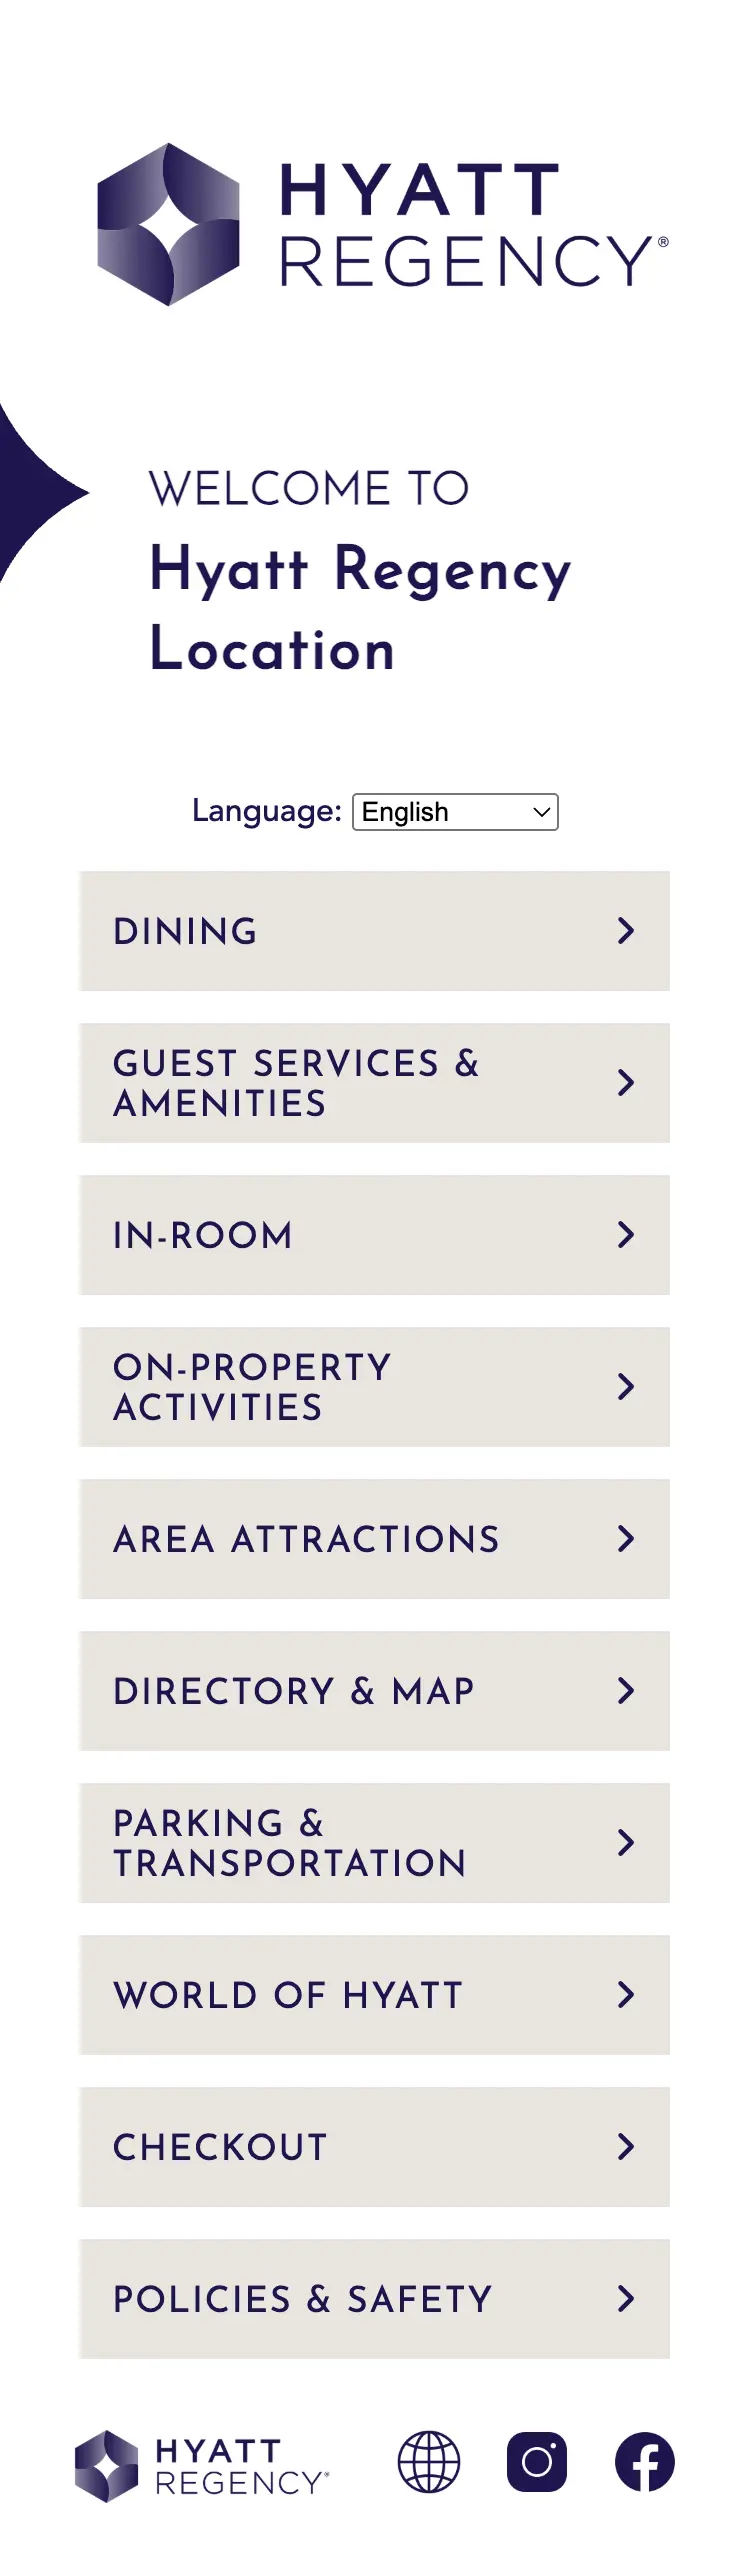
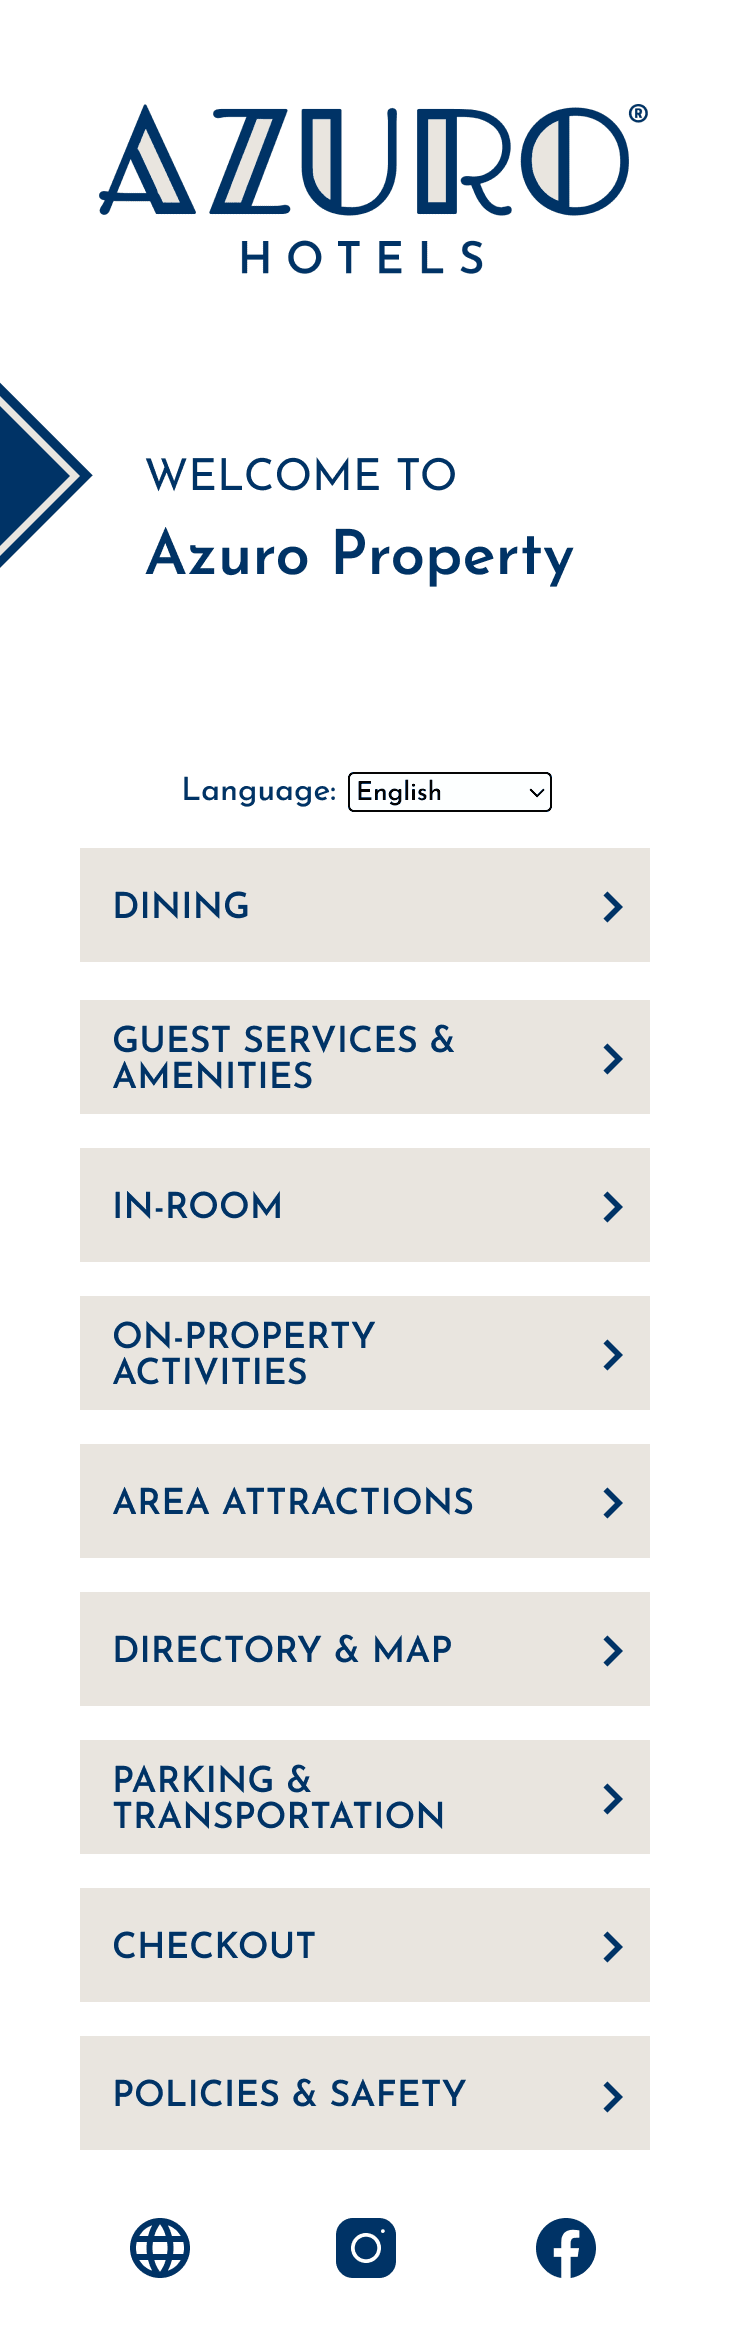
Update Styles

diff --git a/src/components/WorkItems/MobileDirectory.jsx b/src/components/WorkItems/MobileDirectory.jsx
@@ -1,4 +1,4 @@
-import { useState, useRef, useEffect, use } from 'react';
+import { useState, useRef, useEffect } from 'react';
 import { FaHandPointer } from "react-icons/fa6";
 
 
@@ -24,51 +24,158 @@ const MobileDirectory = () => {
       <div className="max-w-6xl mx-auto my-auto outline-offset-0 outline-0 text-black p-10">
         
         <div className="flex justify-between items-start sm:items-center">
-          <h3 className="font-bold text-black text-xl">
-            HYATT REGENCY<span className='text-gray-600 font-semibold'> | DIGITAL COMPENDIUM</span>
+          <h3 className="font-bold text-[#f22b40] text-xl">
+            AZURO HOTELS<span className='text-gray-600 font-medium'> | MOBILE GUEST DIRECTORY</span>
           </h3>
         </div>
         
-        <hr className='border border-gray-600 my-3'/>
+        <hr className='border border-gray-600 mb-10 mt-5'/>
 
-        <div className="space-y-4 grid grid-cols-2 md:grid-cols-3 gap-15 mt-10">
-          <div className='hidden md:flex flex-col justify-center items-center h-fit'>
-            <div className='pb-3'>
-              <select className='text-sm font-medium border-2 border-[#f22b40] rounded-sm' name="languages" id="lang-select" value={currLang} onChange={handleChange}>
-                <option value="english">English</option>
-                <option value="spanish">Spanish</option>
-                <option value="german">German</option>
-                <option value="french">French</option>
-                <option value="chinese-s">Chinese (Simplified)</option>
-                <option value="chinese-t">Chinese (Traditional)</option>
-                <option value="japanese">Japanese</option>
-                <option value="korean">Korean</option>
-                <option value="arabic">Arabic</option>
-              </select>
-            </div>
-            <div className='relative w-[270px] flex flex-col items-center justify-start'>
-              <img className='w-[270px] absolute z-10 pointer-events-none' src="/mobile_directory/frameiphone.webp" alt="phone frame" />
-              <div className='w-[243px] absolute mt-18 max-h-[418px] overflow-y-scroll'>
-                <img src={`/mobile_directory/${currLang}-screen.webp`} alt="Hyatt Regency Mobile Directory" />
+        <div className="space-y-4 grid grid-cols-1 lg:grid-cols-2 gap-5 mt-10">
+          <div className='hidden lg:flex flex-col justify-center items-center h-fit relative'>
+            
+            <div className='pb-2 flex justify-start'>
+
+              <div className='relative w-[270px] flex flex-col items-center justify-start'>
+                <img className='w-[270px] absolute z-10 pointer-events-none' src="/mobile_directory/frameiphone.webp" alt="phone frame" />
+                <div className='w-[243px] absolute mt-18 max-h-[418px] overflow-y-scroll'>
+                  <img className='pointer-events-none' src={`/mobile_directory/${currLang}-screen.webp`} alt="Mobile Directory" />
+                </div>
               </div>
+              
+              <fieldset className='flex flex-col justify-center items-start ml-7 mt-15 gap-2 text-sm'>
+
+                <legend className='mb-3 font-bold text-[#f22b40]'>Select Language:</legend>
+
+                <label className='flex justify-center items-center ml-1 cursor-pointer'>
+                  <input
+                    type="radio"
+                    name="myRadioGroup" 
+                    value="english"
+                    checked={currLang === 'english'}
+                    onChange={handleChange}
+                    className='mr-1'
+                  />
+                  English
+                </label>
+
+                <label className='flex justify-center items-center ml-1 cursor-pointer'>
+                  <input
+                    type="radio"
+                    name="myRadioGroup"
+                    value="french"
+                    checked={currLang === 'french'}
+                    onChange={handleChange}
+                    className='mr-1'
+                  />
+                  French
+                </label>
+
+                <label className='flex justify-center items-center ml-1 cursor-pointer'>
+                  <input
+                    type="radio"
+                    name="myRadioGroup"
+                    value="spanish"
+                    checked={currLang === 'spanish'}
+                    onChange={handleChange}
+                    className='mr-1'
+                  />
+                  Spanish
+                </label>
+
+                <label className='flex justify-center items-center ml-1 cursor-pointer'>
+                  <input
+                    type="radio"
+                    name="myRadioGroup"
+                    value="german"
+                    checked={currLang === 'german'}
+                    onChange={handleChange}
+                    className='mr-1'
+                  />
+                  German
+                </label>
+
+                <label className='flex justify-center items-center ml-1 cursor-pointer'>
+                  <input
+                    type="radio"
+                    name="myRadioGroup"
+                    value="japanese"
+                    checked={currLang === 'japanese'}
+                    onChange={handleChange}
+                    className='mr-1'
+                  />
+                  Japanese
+                </label>
+
+                <label className='flex justify-center items-center ml-1 cursor-pointer'>
+                  <input
+                    type="radio"
+                    name="myRadioGroup"
+                    value="chinese-s"
+                    checked={currLang === 'chinese-s'}
+                    onChange={handleChange}
+                    className='mr-1'
+                  />
+                  Chinese (Simplified)
+                </label>
+
+                <label className='flex justify-center items-center ml-1 cursor-pointer'>
+                  <input
+                    type="radio"
+                    name="myRadioGroup"
+                    value="chinese-t"
+                    checked={currLang === 'chinese-t'}
+                    onChange={handleChange}
+                    className='mr-1'
+                  />
+                  Chinese (Traditional)
+                </label>
+
+                <label className='flex justify-center items-center ml-1 cursor-pointer'>
+                  <input
+                    type="radio"
+                    name="myRadioGroup"
+                    value="korean"
+                    checked={currLang === 'korean'}
+                    onChange={handleChange}
+                    className='mr-1'
+                  />
+                  Korean
+                </label>
+
+                <label className='flex justify-center items-center ml-1 cursor-pointer'>
+                  <input
+                    type="radio"
+                    name="myRadioGroup"
+                    value="arabic"
+                    checked={currLang === 'arabic'}
+                    onChange={handleChange}
+                    className='mr-1'
+                  />
+                  Arabic
+                </label>
+
+              </fieldset>
+
             </div>
+
+
           </div>
           
-          <div className='relative h-[600px] col-span-2 px-2 md:px-10 snap-start overflow-scroll scroll-mt-5 sm:scroll-mt-25'>
+          <div className='relative h-[575px] px-2 md:px-5 snap-start overflow-scroll scroll-mt-5 sm:scroll-mt-25'>
             <div className="sticky top-0 left-0 right-0 h-3 bg-gradient-to-b from-white to-transparent pointer-events-none z-10"></div>
-            
-            <div className="relative z-0">
-              <p className='font-bold py-2' ref={projectTop}>PRODUCT DESCRIPTION</p>
-              <p className='pb-2'>The Digital Compendium mobile directory lets guests access property communications, amenities, campaigns, and services via QR code on their mobile devices. Hotel admins use a customizable editor to create branded digital experiences for guests.</p>
+            <div ref={projectTop} className="relative z-0">
+              <p className='font-bold py-2'>PRODUCT DESCRIPTION</p>
+              <p className='pb-2'>The Azuro Hotels mobile directory lets guests access property communications, amenities, campaigns, and services via QR code on their mobile devices. Hotel admins use a customizable editor to create branded digital experiences for guests.</p>
               <p className='pb-2'>Enterprise brands maintain control through centrally managed templates, ensuring consistent guest-facing content across properties. Brands can set viewing and editing permissions to enforce brand guidelines. Dynamic workflows automatically push template updates to all properties, eliminating manual content updates.</p>
               
               <hr className='border border-gray-300 my-5'/>
               
               <p className='font-bold py-2'>PROJECT OVERVIEW</p>
-              <p><strong className='text-gray-600'>CLIENT:</strong> Hyatt Hotels Corporation</p>
+              <p><strong className='text-gray-600'>CLIENT:</strong> Major Hotel Corporation</p>
               <p><strong className='text-gray-600'>DURATION:</strong> 2 months</p>
               <p className='pb-2'><strong className='text-gray-600'>MY ROLE:</strong> Product Design, Software Development, Project Management</p>
-              <p className='pb-2'>Led the transformation of a digital compendium from a domestic-only product to a globally compliant platform serving enterprise hospitality brands across 9 languages and multiple regions.</p>
+              <p className='pb-2'>Led the transformation of a mobile directory from a domestic-only product to a globally compliant platform serving enterprise hospitality brands across 9 languages and multiple regions.</p>
               
               <hr className='border border-gray-300 my-5'/>
 
@@ -90,9 +197,9 @@ const MobileDirectory = () => {
                 </ul>
                 <p className='py-2'><strong>Design & Project Management</strong></p>
                 <ul className="list-none list-inside ">
-                  <li className='before:content-["‣_"] pl-2'>Created high-fidelity prototypes leveraging brand guidelines for Hyatt corporate design approval.</li>
-                  <li className='before:content-["‣_"] pl-2'>Partnered with Hyatt legal teams to ensure regulatory compliance across regions.</li>
-                  <li className='before:content-["‣_"] pl-2'>Collaborated with Hyatt's localization teams to implement accurate multi-language delivery.</li>
+                  <li className='before:content-["‣_"] pl-2'>Created high-fidelity prototypes leveraging brand guidelines for corporate design approval.</li>
+                  <li className='before:content-["‣_"] pl-2'>Partnered with brand legal teams to ensure regulatory compliance across regions.</li>
+                  <li className='before:content-["‣_"] pl-2'>Collaborated with brand localization teams to implement accurate multi-language delivery.</li>
                 </ul>
               </div>
 
@@ -103,7 +210,7 @@ const MobileDirectory = () => {
                 <p className='py-2'><strong>From Local to Global</strong></p>
                 <ul className="list-none list-inside">
                   <li className='before:content-["‣_"] pl-2'>Expanded from domestic-only to full international deployment in 40 countries.</li>
-                  <li className='before:content-["‣_"] pl-2'>Enabled consistent brand experience across all Hyatt properties worldwide.</li>
+                  <li className='before:content-["‣_"] pl-2'>Enabled consistent brand experience across all hotel properties worldwide.</li>
                 </ul>
                 <p className='py-2'><strong>Operational Efficiency</strong></p>
                 <ul className="list-none list-inside">
@@ -124,15 +231,6 @@ const MobileDirectory = () => {
                 <p>Successfully scaling a product globally requires equal attention to technical architecture, legal compliance, and cross-functional collaboration. Building intelligent automation into the core platform (rather than treating regional variations as exceptions) was critical to sustainable growth and product sales.</p>
               </div>
 
-              <div className=' rounded-2xl bg-gray-200 p-4 mt-10'>
-                <p className='text-gray-600 pt-2 pb-5 text-center'><strong>ADDITIONAL BRAND DIRECTORIES</strong></p>
-                <div className='flex justify-evenly items-center'>
-                  <img className='w-1/3 p-1' src="/mobile_directory/inn.webp" alt="Inn Mobile Directory" />
-                  <img className='w-1/3 p-1' src="/mobile_directory/caption.webp" alt="Caption Mobile Directory" />
-                  <img className='w-1/3 p-1' src="/mobile_directory/alila.webp" alt="Alila Mobile Directory" />
-                </div>
-              </div>
-              
               <div className='w-full flex justify-center'>
                 <button className="relative cursor-pointer group z-5 w-20 h-20 my-20 flex items-center justify-center font-bold" 
                   onClick={()=> scrollToTargetDiv(projectTop)}>

diff --git a/src/components/Work.jsx b/src/components/Work.jsx
@@ -43,7 +43,7 @@ const Work = ({workSection}) => {
           Explore my featured case study, showcasing the full-lifecycle process from initial ideation and UX design to clean code implementation and deployment.
         </p>
 
-        <div className='flex flex-col gap-8'>
+        <div className='flex sm:flex-row flex-col gap-8'>
 
           <a className='pointer-events-auto w-full md:w-1/2 h-[500px] text-black rounded-sm group px-5 md:px-7 pb-7 pt-0' target='_blank' href='/snack-shack'>
             <h3 className="relative text-center translate-y-[16px] w-full font-bold text-xl bg-transparent px-2 text-[#f22b40]">
@@ -71,6 +71,34 @@ const Work = ({workSection}) => {
 
             </div>  
           </a>
+
+          <a className='pointer-events-auto w-full md:w-1/2 h-[500px] text-black rounded-sm group px-5 md:px-7 pb-7 pt-0' target='_blank' href='/mobile-directory'>
+            <h3 className="relative text-center translate-y-[16px] w-full font-bold text-xl bg-transparent px-2 text-[#f22b40]">
+              <span className='bg-gray-50 px-2'>AZURO HOTELS</span>
+            </h3>
+            <div className="border-4 h-full border-black group-hover:border-[#f22b40] rounded-2xl transition-colors duration-300">
+              <p className='font-medium text-xl text-gray-700 text-center px-5 pt-5 pb-1'>MOBILE GUEST DIRECTORY</p>
+              <div className='relative h-[400px] w-full flex items-center justify-center group overflow-hidden mb-10 md:mb-0'>
+                <img 
+                  className='absolute w-[170px] pointer-events-none transition-all duration-500 ease-out z-10' 
+                  src="/mobile_directory/azuro-home.webp" 
+                  alt="Azuro Home" 
+                />
+                <img 
+                  className='absolute pointer-events-none w-[150px] grayscale group-hover:grayscale-0 brightness-70 group-hover:brightness-100 transition-all duration-500 -translate-x-[70px] group-hover:-translate-x-[170px]' 
+                  src="/mobile_directory/azuro-dining.webp" 
+                  alt="Azuro Dining" 
+                />
+                <img 
+                  className='absolute w-[150px] pointer-events-none grayscale group-hover:grayscale-0 brightness-70 group-hover:brightness-100 transition-all duration-500 translate-x-[70px] group-hover:translate-x-[170px]' 
+                  src="/mobile_directory/azuro-services.webp" 
+                  alt="Azuro Services" 
+                />
+              </div>
+
+            </div>  
+          </a>
+
 
         </div>
         

diff --git a/src/components/WorkItems/SnackShack.jsx b/src/components/WorkItems/SnackShack.jsx
@@ -22,20 +22,22 @@ const SnackShack = () => {
       <div ref={projectTop} className='relative md:p-10 p-5 max-w-6xl mx-auto my-auto'>
 
         <div className="flex justify-between items-start md:items-center">
-          <h3 className="font-bold text-black text-xl">
-            THE SNACK SHACK<span className='text-gray-600 font-semibold'> | CONCESSION ORDERING APP</span>
+          <h3 className="font-bold text-[#f22b40] text-xl">
+            THE SNACK SHACK<span className='text-gray-600 font-medium'> | CONCESSION ORDERING APP</span>
           </h3>
         </div>
         <hr className='border border-gray-600 mb-10 mt-5'/>
 
         <div className="space-y-4 grid grid-cols-1 md:grid-cols-2 gap-0 md:gap-8 lg:gap-15 mt-10">
           <div className="flex items-start h-[400px] md:h-auto justify-center relative group overflow-hidden">
-            <img src="/snackshack/shack-phone-1.webp" alt="Snack Shack App" className=" absolute w-[300px] ml-0 md:ml-5 transition-transform duration-800 group-hover:-translate-y-75"/>
+            <div className="absolute top-0 left-0 right-0 h-3 bg-gradient-to-b from-white to-transparent z-10 pointer-events-none"></div>
+            <img src="/snackshack/shack-phone-1.webp" alt="Snack Shack App" className="absolute w-[300px] ml-0 md:ml-5 transition-transform duration-800 translate-y-2 group-hover:-translate-y-75"/>
+            <div className="absolute bottom-0 left-0 right-0 h-3 bg-gradient-to-t from-white to-transparent z-10 pointer-events-none"></div>
           </div>
           <div>
             <p className='font-bold py-2'>PROJECT OVERVIEW</p>
             <p className='pb-2'>This three-week project focused on improving the customer experience and operational efficiency of a local park's concession stand, which suffered from severe queue backups during peak hours, particularly at game halftimes and intermissions.</p>
-            <p><strong>Client:</strong> Franklin Park Borough - Recreation</p>
+            <p><strong>Client:</strong> Community Parks & Recreation</p>
             <p><strong>Duration:</strong> 3 weeks</p>
             <p><strong>My Role:</strong> Research, Wireframing & User Flows, Data Architecture, Software Development</p>
             <p><strong>Summary:</strong> Developed a mobile-first web application that allows patrons to browse the concession menu and place orders remotely. The application's menu data is dynamically managed by an administrator using a simple Google Sheet, which is converted into a REST API to populate the app.</p>

diff --git a/src/components/Navigation.jsx b/src/components/Navigation.jsx
@@ -4,10 +4,10 @@ const Navigation = ({currentSection, setCurrentSection, scrollToTargetDiv, workS
     <nav className={`tracking-widest fixed flex pb-3 lg:pb-auto justify-center items-center lg:top-0 lg:bottom-auto top-auto bottom-0 left-0 right-0 z-50 bg-none transform-all duration-150 pointer-events-none ${isAtTop ? 'pt-auto lg:pt-1' : 'pt-auto lg:pt-3'}`}>
 
       <div className={`max-w-6xl mr-0 bg-white/90 rounded-xl backdrop-blur-md border-1 border-gray-200 shadow-md transform-all duration-150 pointer-events-auto ${isAtTop ? 'lg:w-[65vw]' : 'lg:w-150'} w-[90vw]`}>
-        <div className="flex justify-center items-center h-14 px-2 sm:px-5">
+        <div className="flex justify-center items-center h-14 px-5">
           <div className="flex w-full justify-between items-center">
 
-            <button className='flex justify-center  items-center w-[45px]' onClick={() => { setCurrentSection('top'); scrollToTargetDiv(topSection)}}>
+            <button className='hidden sm:flex justify-center items-center w-[45px]' onClick={() => { setCurrentSection('top'); scrollToTargetDiv(topSection)}}>
               <img src="/jeff-icon-r.webp" className={`absolute transition-all duration-300 w-[45px] ${currentSection === 'top' ? "opacity-100" : "opacity-0"} cursor-pointer`} alt="Jeff Logo" />
               <img src="/jeff-icon.webp" className={`absolute transition-all duration-300 w-[45px] ${currentSection !== 'top' ? "opacity-100" : "opacity-0"} cursor-pointer`} alt="Jeff Logo" />
             </button>

diff --git a/src/components/Contact.jsx b/src/components/Contact.jsx
@@ -65,7 +65,7 @@ const Contact = ({contactSection, topSection, scrollToTargetDiv}) => {
           </div>
 
         </div>
-        <div className="w-full mt-30 text-right">
+        <div className="w-full mt-30 text-center">
           © 2025 Jeff Sahim
         </div>
       </div>
